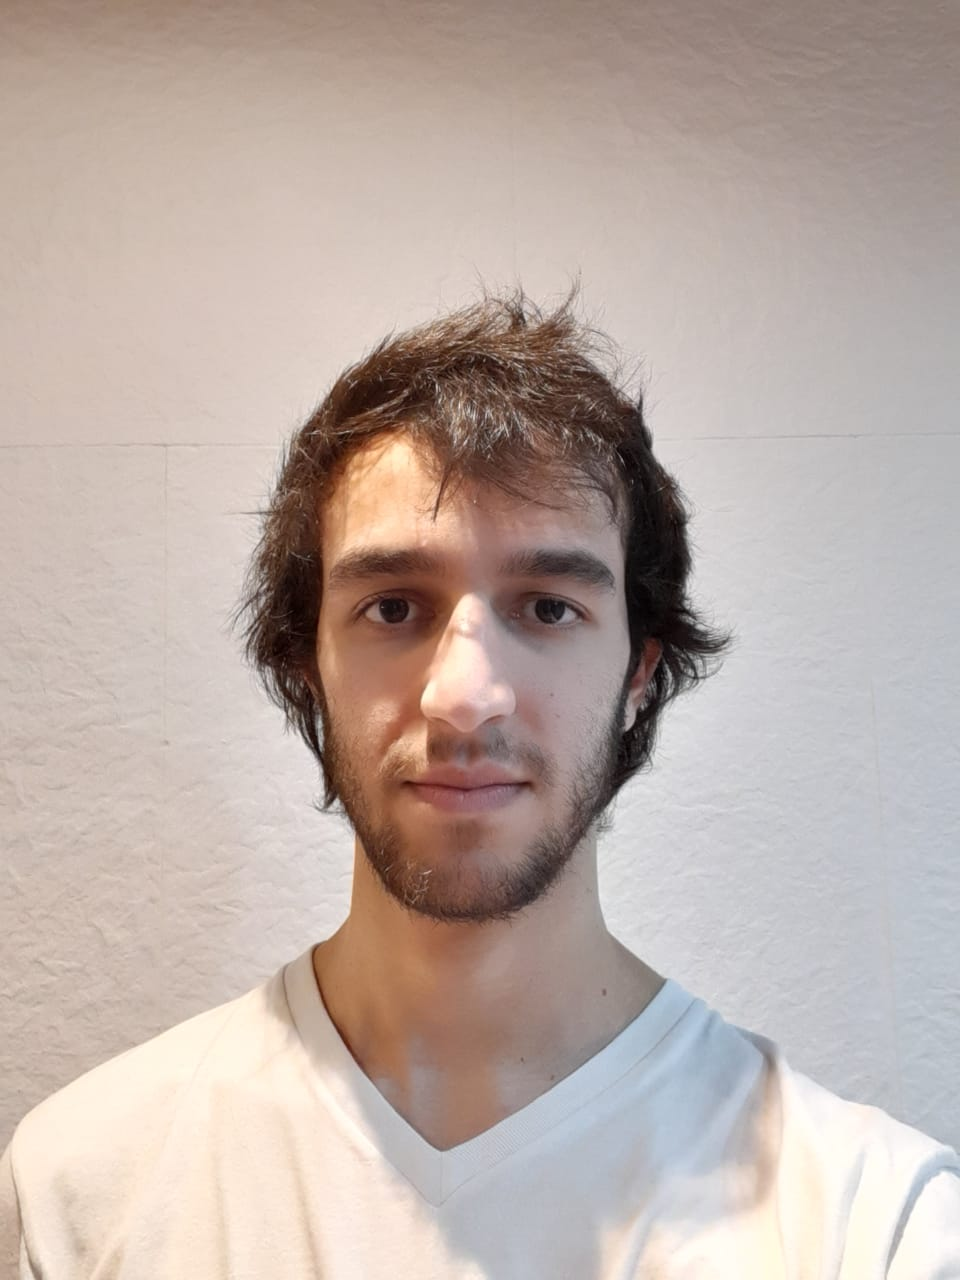
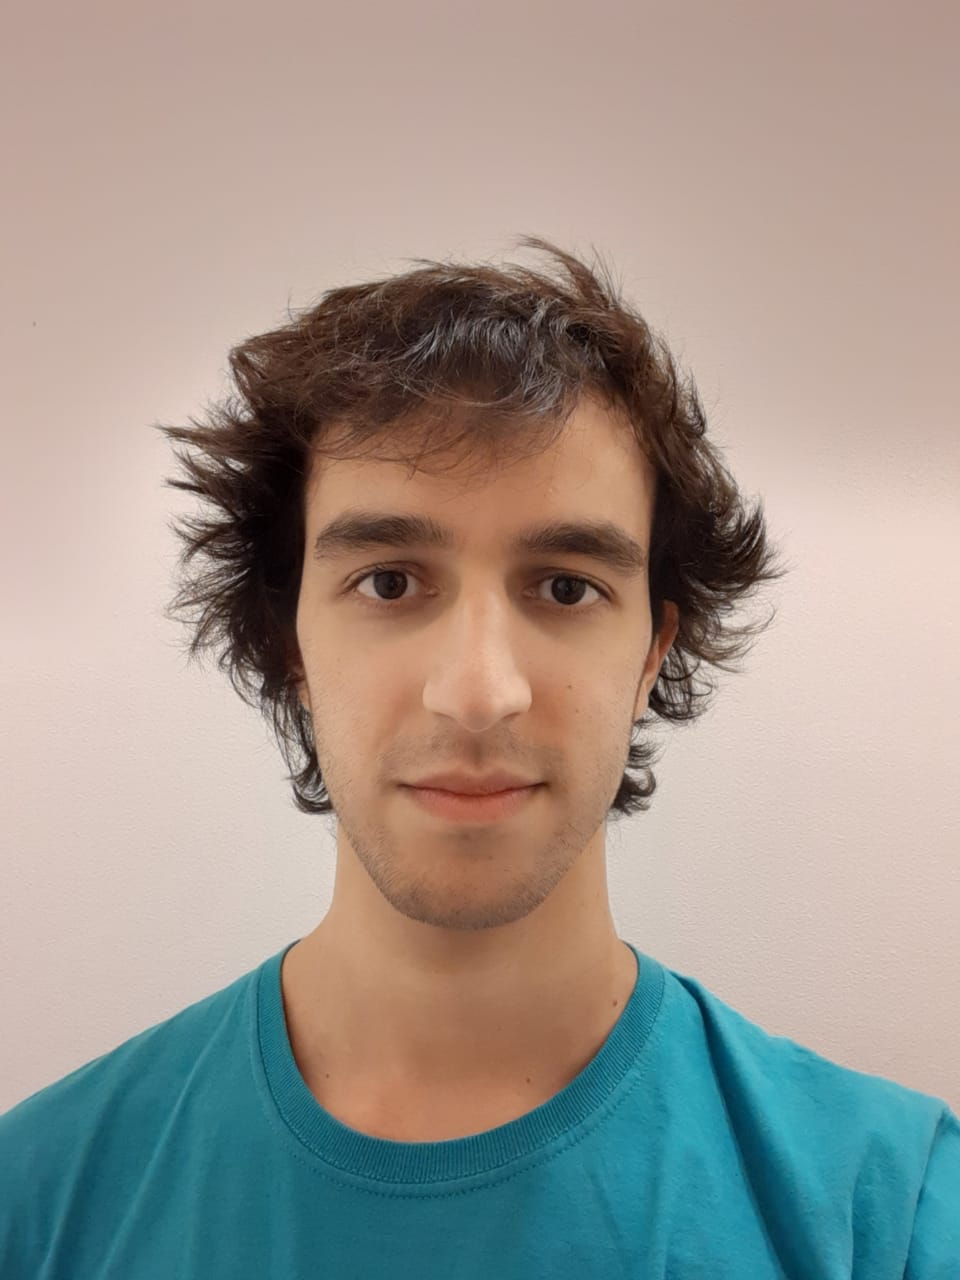
The Creators: Actualizado

diff --git a/proyectoIntegrador/public/stylesheets/index.css b/proyectoIntegrador/public/stylesheets/index.css
@@ -577,6 +577,11 @@ h1, h3 {
     clip-path: polygon(0 0, 100% 0, 100% 89.5%, 0 89.5%);
 }
 
+.contenedor-nosotros .centrador-nosotros .caja-imagenes-nosotros .img-perfil-persona .facu {
+    transform: scale(1.2);
+    clip-path: polygon(0 0, 100% 0, 100% 92%, 0 92%);
+}
+
 
 /* =================== SEPARADOR =================== */
 
